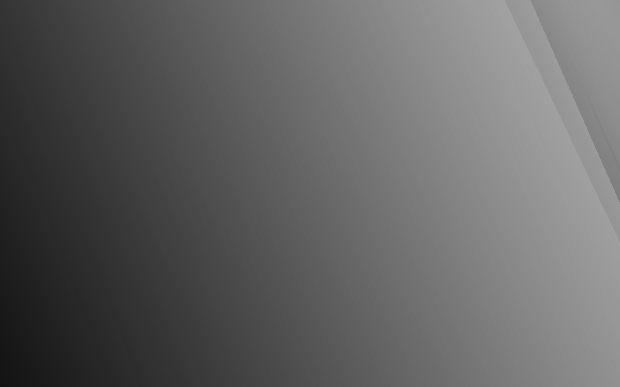
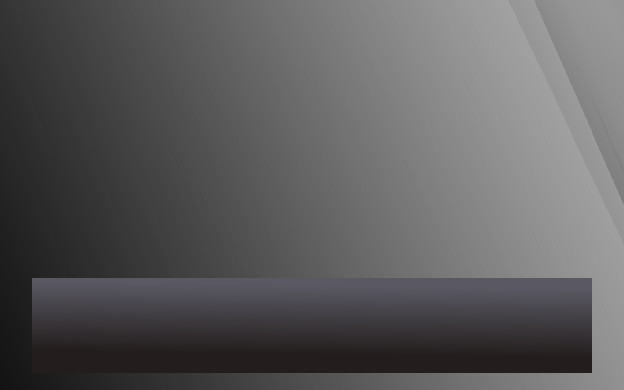
edited inventory code

Changed region(s): [[0.2758, 0.7132, 0.95, 0.9612], [0.0306, 0.7132, 0.3984, 0.8372]]

diff --git a/js/Inventory.js b/js/Inventory.js
@@ -1,10 +1,22 @@
 var inventory = new(function () {
+    //adapted from Dan Dela Rosa's code from GINT!
     this.isShowing = false;
     this.x = 95;
     this.y = 110;
-    
-    this.foundAddress = false;
-    this.foundName = false;
+
+    var width = 624;
+    var height = 390;
+
+    var numCols = 4;
+
+    var itemCellX = this.x + 50;
+    var itemCellY = this.y + 50;
+
+    var itemCellWidth = 100;
+    var itemCellHeight = 100;
+
+    var itemCellBetweenX = 140;
+    var itemCellBetweenY = 100;
 
     var inventoryImg = inventoryPic;
 
@@ -20,57 +32,43 @@ var inventory = new(function () {
             name: "Broken sunglasses",
             description: "Sunglasses... But we barely get any sun?",
             isObtained: false,
-            giveTo: null,
-            canUseWith: "Monthly club pass",
-            
-            examining: false,
-            observations: ["Oh man, are these brand?! I can't tell. I wonder which would cost more, fixing these, or buying some new sunnies?", "Some cool sunglasses", "Hey.. Looks like there's something attached to it"],
-            
-            //0 index is a bark from player, second is the variable it changes - maybe it'll change in the code?
-            newInformation: ["There's an address...", this.foundAddress]
+            pickupImg: TILE_ITEM_SUNGLASSES,
+            uiSprite: UIItem_sunglasses
         },
         {
             name: "Dog collar",
             description: "Wow, this looks like an antique",
             isObtained: false,
-            giveTo: null,
-            canUseWith: null,
-            
-            examining: false,
-            observations: ["Hmm, whose borker does this belong to?", "I don't think I can do much with this..."],
-            
-            newInformation: null
+            pickupImg: TILE_ITEM_DOGCOLLAR,
+            uiSprite: UIItem_dogCollar
         },
         {
             name: "Monthly club pass",
-            description: "For the most lit club in town",
+            description: "Oooh, one more until I can get a scratch and win",
             isObtained: false,
-            giveTo: null,
-            canUseWith: null,
-            
-            examining: false,
-            observations: ["Almost all the days have stickers on them... Looks like someone likes to have fun", "Huh. What's this chicken scratch on the back?"],
-            
-            newInformation: ["There's a name...", this.foundName]
+            pickupImg: TILE_ITEM_MEMBERSHIPCARD,
+            uiSprite: UIItem_membershipCard
         },
         {
             name: "Half eaten sandwich",
             description: "A coolio sammich",
             isObtained: false,
-            giveTo: null,
-            canUseWith: null,
-            
-            examining: false,
-            observations: ["Oh, that's mine.", "That was a good sandwich"],
-            
-            newInformation: null
+            pickupImg: TILE_ITEM_SANDWICH,
+            uiSprite: UIItem_sandwich
         }
     ];
+
 
     this.drawUI = function () {
         if (this.isShowing) {
             canvasContext.drawImage(inventoryImg, this.x, this.y);
             colorText("Inventory", titleTextX, titleTextY, textColour, textFontFace, textAlign, 1);
+
+            for (var i = 0; i < inventoryItems.length; i++) {
+                if (inventoryItems[i].isObtained) {
+                    canvasContext.drawImage(inventoryItems[i].uiSprite, itemCellX + i * itemCellBetweenX, itemCellY);
+                }
+            }
         }
     }
 

diff --git a/js/World.js b/js/World.js
@@ -14,7 +14,7 @@ const TILE_ITEM_SUNGLASSES = 5;
 
 var worldGrid = [1, 1, 1, 1, 1, 1, 1, 1, 1, 1, 1, 1, 1, 1, 1, 1, 1, 1, 1, 1,
                  1, 0, 0, 0, 0, 0, 0, 0, 0, 0, 0, 0, 0, 0, 0, 0, 0, 0, 0, 1,
-                 1, 0, 0, 0, 0, 0, 0, 0, 0, 0, 0, 0, 0, 0, 0, 0, 0, 0, 0, 1,
+                 1, 0, 2, 3, 4, 5, 0, 0, 0, 0, 0, 0, 0, 0, 0, 0, 0, 0, 0, 1,
                  1, 0, 0, 0, 0, 0, 0, 0, 0, 0, 0, 0, 0, 0, 0, 0, 0, 0, 0, 1,
                  1, 0, 0, 0, 0, 0, 0, 0, 0, 0, 0, 0, 0, 0, 0, 0, 0, 0, 0, 1,
                  1, 0, 0, 0, 0, 0, 0, 0, 0, 0, 0, 0, 0, 0, 0, 0, 0, 0, 0, 1,

diff --git a/js/Player.js b/js/Player.js
@@ -42,5 +42,7 @@ var player = new (function () {
     this.draw = function () {
         drawRectToContext(scaledContext, this.x, this.y, this.w, this.h, "#6B6570", 1);
     }
+    
+    
 
 })();
